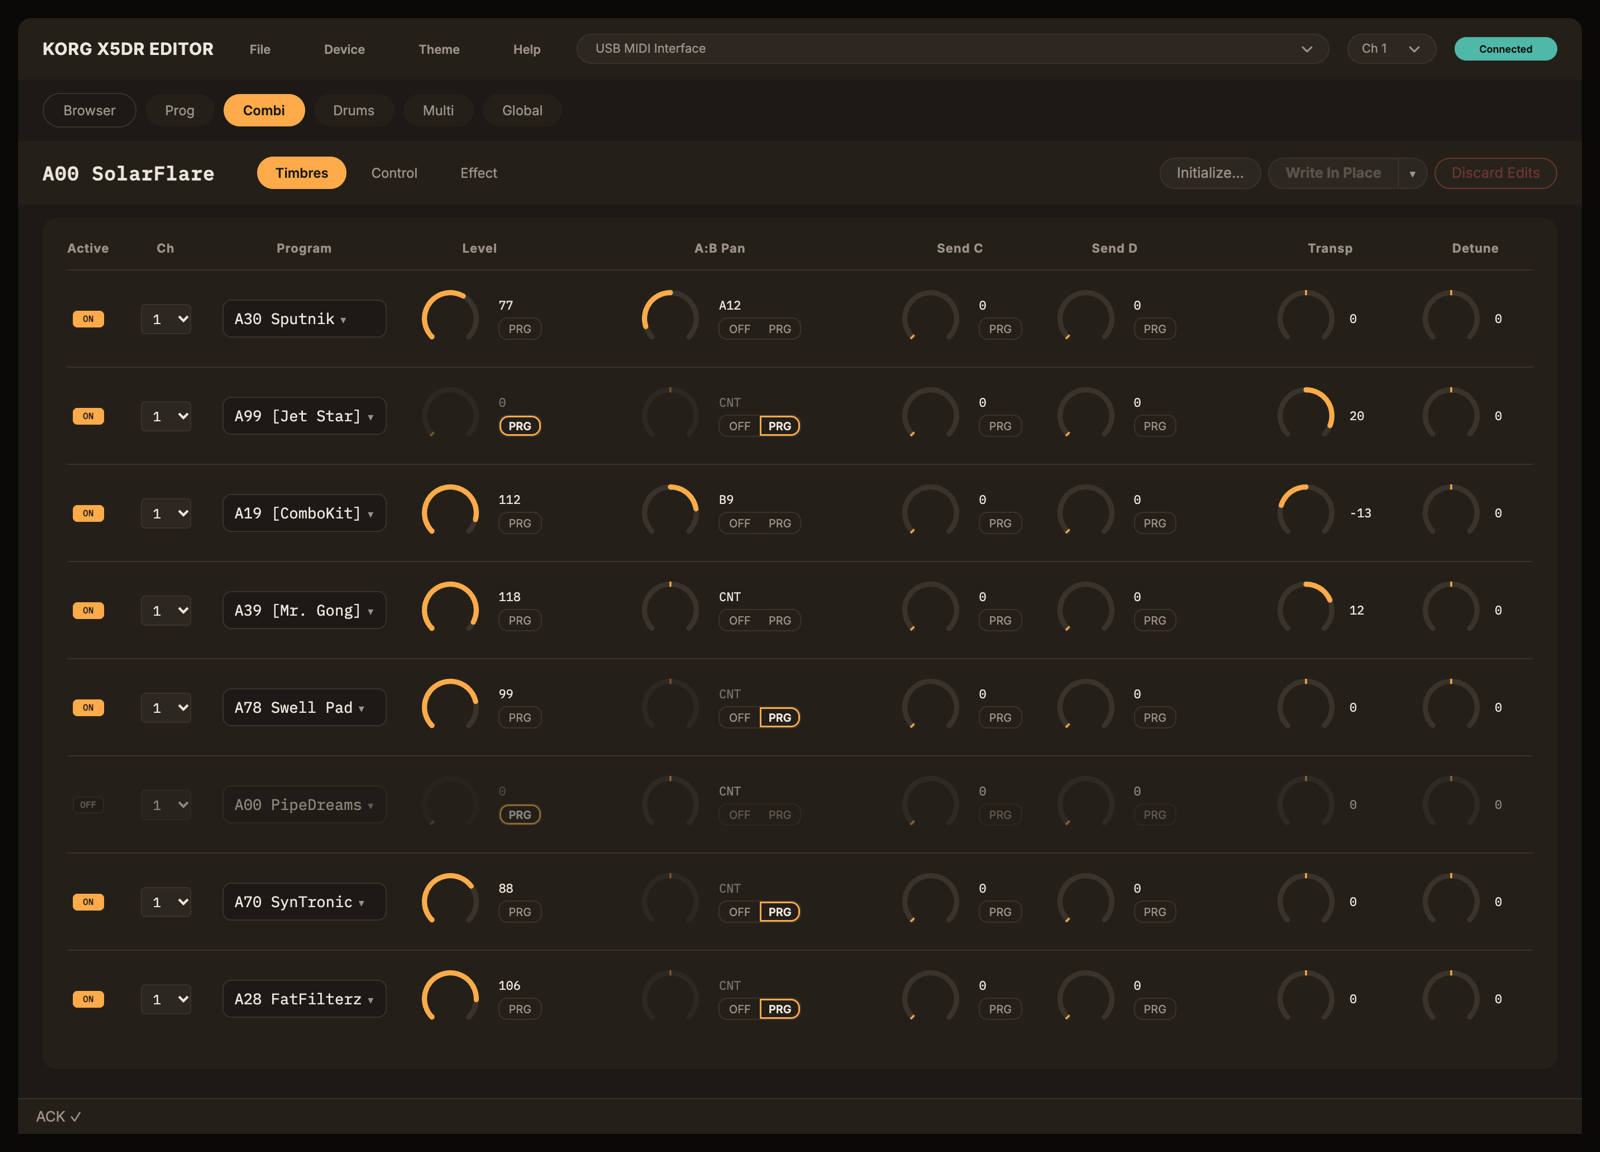
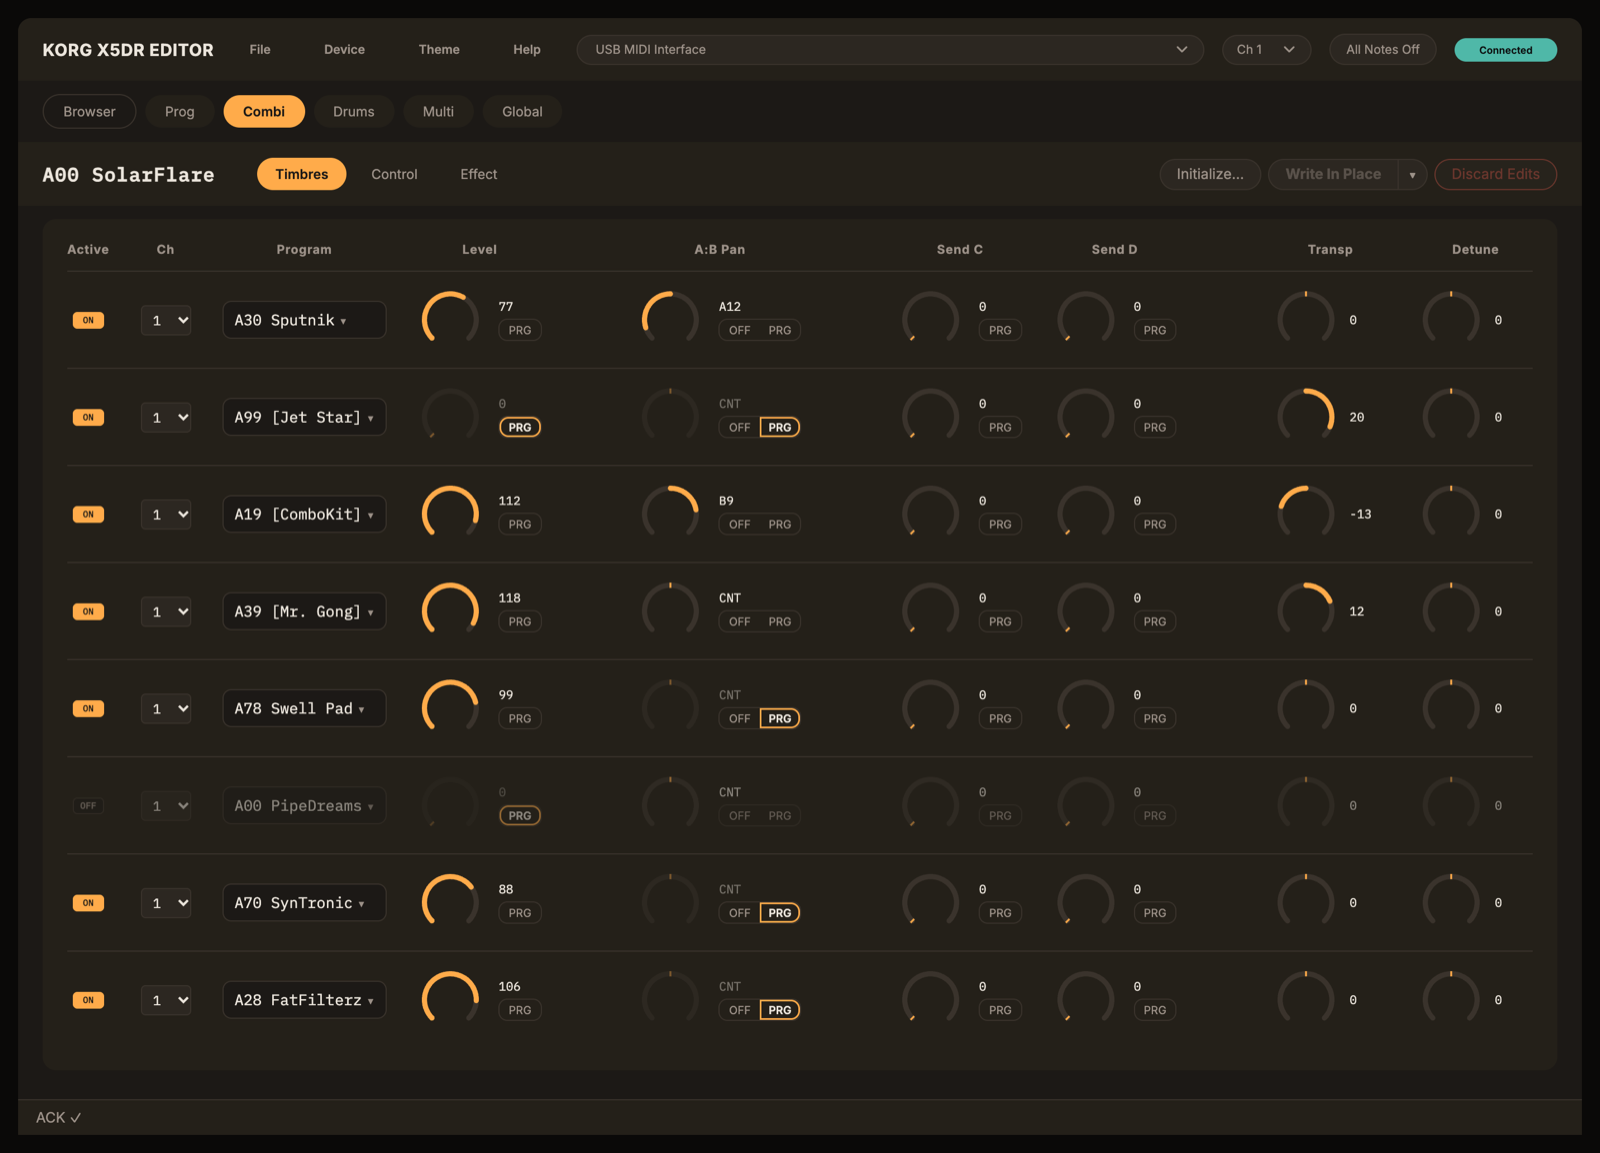
docs: v1.0.1 README and screenshots; date the CHANGELOG
README: All Notes Off and the EQ Shift-drag in Features, stuck-note tip
in Setup; screenshots regenerated (new header button). The screenshot
script now also grows the window until no visible Combi/Multi grid
scrolls (Landmine #130). Landmine #116 points to its #129 exception.

diff --git a/docs/X5DR_Editor_Landmines.md b/docs/X5DR_Editor_Landmines.md
@@ -71,7 +71,7 @@
 
 **115. ⚑ CONTRACT — Every send-and-await helper arms its reply through `armAckReply`/`armWriteReply`, never a bare `awaitingWriteAck = true`.** With SysEx reception disabled the device answers nothing, not even a NAK. Dump timeout = `ACK_TIMEOUT_BASE_MS` (5000) + `ACK_TIMEOUT_PER_BYTE_MS` (0.4) × bytes — an All Data dump takes ~11s just to transmit. Helpers resolve `'timeout'`; each caller must not mislabel it (e.g. as "No data loaded"). Expose each via `withTimeoutRetry` (a `…Once` function is one attempt) for the Retry/OK modal, and hide the freeze overlay while that modal is up. Live Parameter Changes are fire-and-forget: a NAK is detected, silence is not. `HW` *(Archive #185)*
 
-**116. ⚑ CONTRACT — Every MIDI send takes its channel from the selector: `sysexHeader()` for SysEx, `0xC0 | getSysexChannel()` (etc.) for channel messages — never a literal `0x30` header or bare `0xC0`/`0x90`/`0x80`.** Response checkers (`isAck`, `isNak`, …) accept any `3g`. `SYSEX_HEADER` is the channel-1 constant for tests only. After editing a JS string in `index.html`, run `node --check` on the extracted module script — one unescaped apostrophe takes down the whole page. `HW` *(Archive #186)*
+**116. ⚑ CONTRACT — Every MIDI send takes its channel from the selector: `sysexHeader()` for SysEx, `0xC0 | getSysexChannel()` (etc.) for channel messages — never a literal `0x30` header or bare `0xC0`/`0x90`/`0x80`.** (One deliberate exception: All Notes Off, #129.) Response checkers (`isAck`, `isNak`, …) accept any `3g`. `SYSEX_HEADER` is the channel-1 constant for tests only. After editing a JS string in `index.html`, run `node --check` on the extracted module script — one unescaped apostrophe takes down the whole page. `HW` *(Archive #186)*
 
 **118. `midiAccess.onstatechange` fires on an output's first `send()` (implicit open) as well as on hot-plug, so rebuilding the port list must keep the current selection.** `populatePortSelect` keeps the user's choice by name (`preferredPortName`, localStorage `x5dr-midi-port`) and falls back to the "x5" auto-select only when the user hasn't chosen; `setSelectedOutput` resets `editMode`/`pendingParam` only when the output really changes. Chrome keeps unplugged ports in the map with `state === 'disconnected'` (sending throws), so they're filtered out. Chrome doesn't pick up a port *renamed* in Audio MIDI Setup until it is restarted (no `statechange`). `HW` *(Archive #190)*
 

diff --git a/README.md b/README.md
@@ -14,7 +14,7 @@ A free, browser-based editor and librarian for the **Korg X5DR** synthesizer mod
 
 ## Features
 
-- Every **Program** parameter, on six pages (Easy, OSC, VDF, VDA, Control, Effect), with envelope displays. Edits are heard as you move a control.
+- Every **Program** parameter, on six pages (Easy, OSC, VDF, VDA, Control, Effect), with envelope displays and a Parametric EQ curve you can drag (hold Shift to change just one value). Edits are heard as you move a control.
 - **Combinations**, **Multi**, **Global** and both **Drum Kits**, including which Programs and Combinations use each kit.
 - All 47 **effect types**, with routing diagrams.
 - **Write In Place** or **Write To A New Slot…**; **Discard Edits** reverts anything not yet written.
@@ -22,6 +22,7 @@ A free, browser-based editor and librarian for the **Korg X5DR** synthesizer mod
 - **Initialize…** for Programs and Combinations: start from a clean patch.
 - **File → Data File…** loads or saves exactly the parts you choose: Programs, Combinations, Multi, Drums, Global. Single Programs and Combinations too.
 - **Device → Import From Device / Write to Device** for every data type.
+- **All Notes Off** in the header stops stuck notes on every MIDI channel.
 - Three colour themes.
 
 ## Requirements
@@ -47,7 +48,7 @@ A free, browser-based editor and librarian for the **Korg X5DR** synthesizer mod
 4. **Choose the port:** ports with "X5" in their name are selected automatically; otherwise pick your interface's output. Some MIDI drivers let only one program use a port at a time: if the port is missing or won't open, close your DAW and reload the editor.
 5. **Allow MIDI** when the browser asks.
 
-The editor sends no notes. To hear a sound, play it from a keyboard or a DAW, through the same MIDI interface.
+The editor sends no notes. To hear a sound, play it from a keyboard or a DAW, through the same MIDI interface. If a note gets stuck, click **All Notes Off** in the header.
 
 ## Ways to run it
 

diff --git a/CHANGELOG.md b/CHANGELOG.md
@@ -2,7 +2,7 @@
 
 All notable changes to the Korg X5DR Editor are listed here. The format follows [Keep a Changelog](https://keepachangelog.com/en/1.1.0/), and versions follow [Semantic Versioning](https://semver.org/).
 
-## [1.0.1] — Unreleased
+## [1.0.1] — 2026-10-22
 
 ### Added
 - **All Notes Off** button in the header: stops stuck notes on all 16 MIDI channels (it also releases the sustain pedal and cuts release tails), and flashes to confirm.
